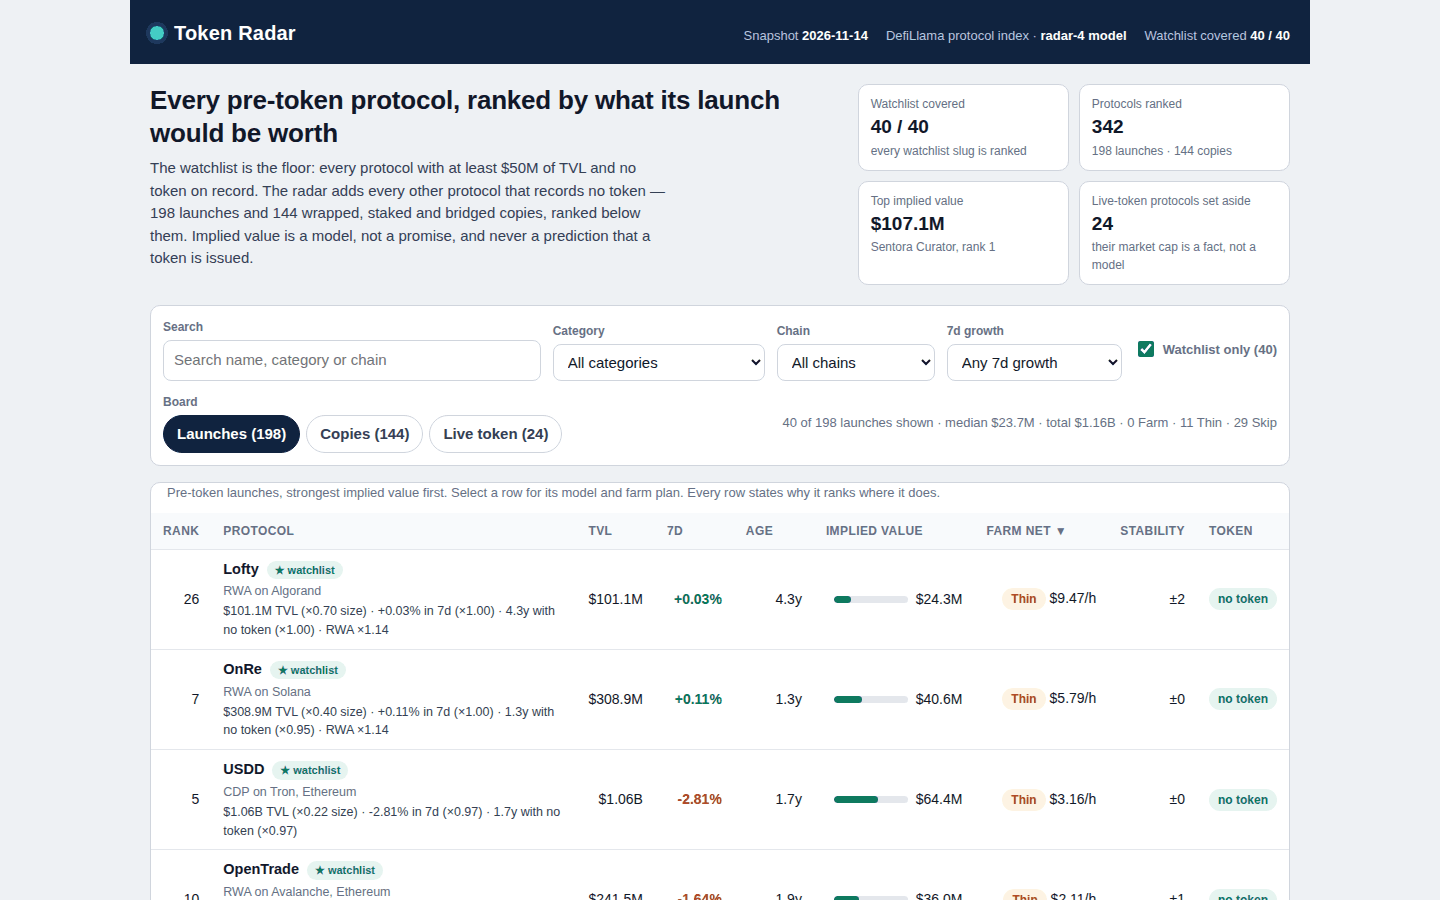
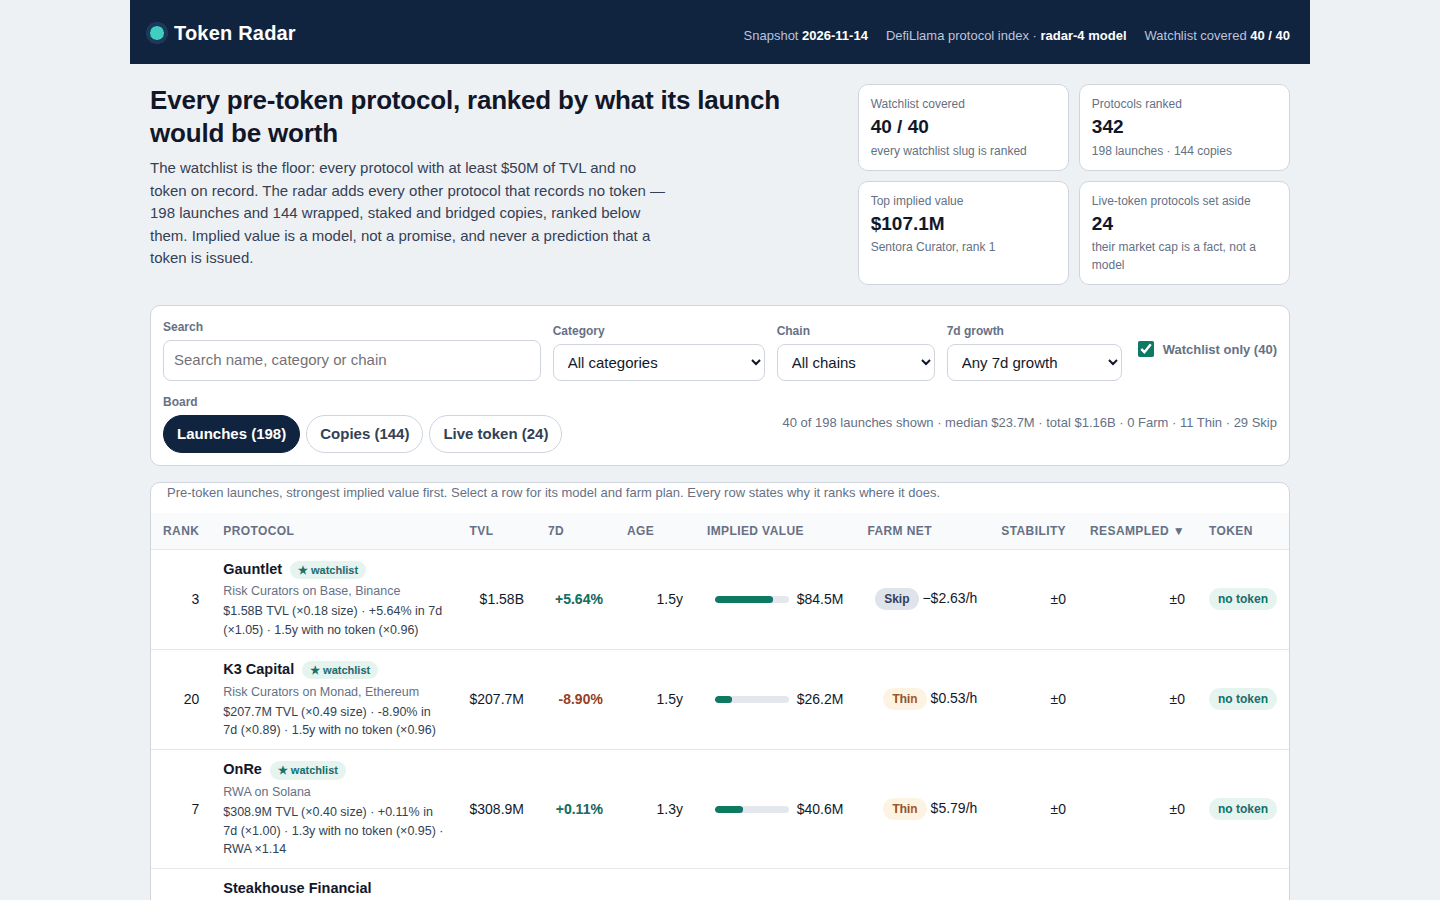
Quality round 7: bootstrap 200->1000 resamples, dollar gas funding on 135 vague farm steps, specific 2nd/exit for chain/payment/privacy, sortable Resampled column

diff --git a/lib/model.ts b/lib/model.ts
@@ -65,7 +65,7 @@
 // Skip verdict in dollars per hour of hands-on work. Two more ride with them:
 // bootstrapStability resamples the live set and refits the curve and the ranking, so
 // the dashboard can say how solid the top of the board is and where it moves — and
-// every row carries its own median move across the 200 resamples, so the detail view
+// every row carries its own median move across the 1,000 resamples, so the detail view
 // can say how far this rank moves; and
 // every row carries its rank at size exponents 0.45 and 0.55 plus its factual
 // watch-outs, so the detail view can say how far this rank moves and what to watch.
@@ -128,7 +128,7 @@ export interface ModelConstants {
   interval?: { lo: number; hi: number };
   /** Bootstrap stability of the ranking (see bootstrapStability): the size
    *  slope refitted on 1,000 resamples of the live protocols, and the ranking
-   *  refitted on 200 resamples with the category factors refit each time.
+   *  refitted on 1,000 resamples with the category factors refit each time.
    *  Absent on the bare MODEL constant. */
   bootstrap?: {
     slope_median: number; slope_lo: number; slope_hi: number;
@@ -201,7 +201,7 @@ export interface BoardRow {
   rank_at_045: number;
   rank_at_055: number;
   /** How far this rank moves when the live set is resampled: the row's median
-   *  absolute rank move across the 200 bootstrap resamples (see
+   *  absolute rank move across the 1,000 bootstrap resamples (see
    *  bootstrapStability), and its 90th percentile. Null on copies, whose ranks
    *  the bootstrap does not refit, and until bootstrapStability has run. */
   rank_boot_med: number | null;
@@ -509,7 +509,7 @@ export function riskFlags(p: SnapshotProtocol, age: number | null): string[] {
  *  of the 128 live protocols, drawn with replacement: median 0.52, 90%
  *  interval 0.36–0.65 — the model's 0.50 sits inside it, near the median —
  *  and how many launches move 10 or more ranks at each end of that interval.
- *  (2) The whole ranking refitted on 200 resamples, the category factors
+ *  (2) The whole ranking refitted on 1,000 resamples, the category factors
  *  refit from each resample: how often each top-20 launch stays in the top
  *  20, how often ranks 1–3 keep their exact rank, and the median absolute
  *  rank move across all launches. The top of the board is solid (ranks 1–3
@@ -517,7 +517,7 @@ export function riskFlags(p: SnapshotProtocol, age: number | null): string[] {
  *  slope's own interval is wide enough that the exponent alone can move
  *  8–23 launches by 10 or more ranks — the sensitivity table's ±0.05
  *  understates that, and this block says so. Each launch row also keeps its
- *  own median move and 90th percentile across the 200 resamples
+ *  own median move and 90th percentile across the 1,000 resamples
  *  (rank_boot_med / rank_boot_p90 on the row), so the detail view can say how
  *  far this rank moves — the two measures of stability, exponent sensitivity
  *  and resampling, are independent, and they disagree in the middle of the
@@ -547,7 +547,7 @@ export function bootstrapStability(
     const alt = altRanks(snapshot, model, exp);
     return launches.filter((r) => Math.abs((alt.get(r.slug) ?? 0) - r.rank) >= 10).length;
   };
-  // (2) Whole ranking on 200 resamples, factors refit each time. Each launch
+  // (2) Whole ranking on 1,000 resamples, factors refit each time. Each launch
   // keeps its own list of rank moves too, so its row can carry its median and
   // 90th-percentile move — the per-row half of this block.
   const rngModel = mulberry32(20261119);
@@ -556,7 +556,7 @@ export function bootstrapStability(
   const top3Exact = [0, 0, 0];
   const absMoves: number[] = [];
   const perRow = new Map(launches.map((r) => [r.slug, [] as number[]]));
-  for (let i = 0; i < 200; i++) {
+  for (let i = 0; i < 1000; i++) {
     const sample = Array.from({ length: live.length }, () => live[Math.floor(rngModel() * live.length)]!);
     const mm: ModelConstants = { ...model, category_factors: categoryFactors({ ...snapshot, protocols: sample }, model) };
     const alt = launches.map((r) => ({ slug: r.slug, v: impliedValue(proto.get(r.slug)!, snapshot.as_of, mm).implied }))
@@ -575,7 +575,7 @@ export function bootstrapStability(
     r.rank_boot_med = median(moves);
     r.rank_boot_p90 = quantile(moves, 0.9);
   }
-  const stayRates = [...stay.values()].map((v) => Math.round((v / 200) * 100));
+  const stayRates = [...stay.values()].map((v) => Math.round((v / 1000) * 100));
   return {
     slope_median: slopeMedian,
     slope_lo: slopeLo,
@@ -584,7 +584,7 @@ export function bootstrapStability(
     rank_moves_hi: movesAt(slopeHi),
     top20_stay_median: median(stayRates),
     top20_stay_min: Math.min(...stayRates),
-    top3_exact: [Math.round((top3Exact[0]! / 200) * 100), Math.round((top3Exact[1]! / 200) * 100), Math.round((top3Exact[2]! / 200) * 100)],
+    top3_exact: [Math.round((top3Exact[0]! / 1000) * 100), Math.round((top3Exact[1]! / 1000) * 100), Math.round((top3Exact[2]! / 1000) * 100)],
     median_abs_move: median(absMoves),
   };
 }
@@ -803,10 +803,8 @@ export function farmEconomics(p: SnapshotProtocol, age: number | null, implied: 
 /** One category's farm actions, as templates — ${name} the protocol, ${app} its own app
  *  on the chain, ${capital} the position size, ${small} a fifth of it, ${chain} the chain,
  *  ${log} the farm-log line. One table drives all four writers, so a category's wording
- *  lives in one place instead of four parallel if-chains. An entry that leaves a field
- *  out falls through to the default for that writer: the chain, payment and privacy
- *  categories have a main and a weekly action only, exactly as the four writers had
- *  before — their second action and exit were always the generic ones. */
+ *  lives in one place instead of four parallel if-chains. Every entry defines
+ *  all four writers. */
 type CatKey = 'main' | 'second' | 'weekly' | 'exit';
 interface CatActions {
   keys: string[];
@@ -884,15 +882,21 @@ const CATS: CatActions[] = [
   { keys: ['chain'],
     reward: 'activity points',
     main: "Use $${capital} of the chain's gas token in ${name}'s own app on ${chain} and keep the activity going.",
-    weekly: "Make one small transaction in ${name}'s own app on ${chain} each week." },
+    second: "Make a second small transaction in ${name}'s own app on ${chain} so the activity is not a single event.",
+    weekly: "Make one small transaction in ${name}'s own app on ${chain} each week.",
+    exit: "To exit, move the remaining balance out of ${name}'s own app on ${chain}, ${log}" },
   { keys: ['payment'],
     reward: 'spending points',
     main: "Spend $${capital} through ${name}'s payments app on ${chain} and keep the card or account active.",
-    weekly: "Spend $${small} through ${name}'s payments app on ${chain} each week." },
+    second: "Make a second, smaller payment through ${name}'s payments app on ${chain}.",
+    weekly: "Spend $${small} through ${name}'s payments app on ${chain} each week.",
+    exit: "To exit, withdraw the remaining balance from ${name}'s payments app on ${chain}, ${log}" },
   { keys: ['privacy'],
     reward: 'shielded points',
     main: "Use $${capital} through ${name}'s private app on ${chain} and keep the shielded balance.",
-    weekly: "Refresh the shielded balance through ${name}'s private app on ${chain} each week." },
+    second: "Make a second shielded transaction through ${name}'s private app on ${chain}.",
+    weekly: "Refresh the shielded balance through ${name}'s private app on ${chain} each week.",
+    exit: "To exit, unshield the remaining balance through ${name}'s private app on ${chain}, ${log}" },
   { keys: ['basis'],
     reward: 'funding-rate points',
     main: "Open a $${capital} basis trade on ${name} through ${app}: buy spot and short the same amount on the perpetual, and keep both legs open.",
@@ -993,15 +997,22 @@ function tvlText(tvl: number): string {
   return `$${Math.round(tvl / 1e3)}K`;
 }
 
-/** How much of the chain's gas token one farm wallet needs to start, in that token. */
-function gasTokenFor(chain: string): string {
+/** How much of the chain's gas token one farm wallet needs to start, in that token.
+ *  Six chains name a native amount (0.02 ETH, 0.05 SOL, 0.01 BNB, 0.0002 BTC,
+ *  50 TRX); every other chain states the same funding need in dollars — the
+ *  whole plan's gas bill, which step 5 budgets — because naming a native amount
+ *  for 50+ chains from memory would invent token symbols (Polygon's token alone
+ *  was renamed MATIC to POL). "About $27 worth of Base's gas token" is a number
+ *  the reader can act on; "a little of the chain's gas token" was not, and 135
+ *  of the 342 rows said exactly that before this fix. */
+function gasTokenFor(chain: string, totalGas: number): string {
   const c = chain.toLowerCase();
   if (c === 'ethereum') return '0.02 ETH';
   if (c === 'solana') return '0.05 SOL';
   if (c === 'bitcoin') return '0.0002 BTC';
   if (c === 'tron') return '50 TRX';
   if (c === 'bsc' || c === 'binance') return '0.01 BNB';
-  return "a little of the chain's gas token";
+  return `$${totalGas} worth of ${chain}'s gas token`;
 }
 
 /** The category's first action, in the words a farmer can follow, naming the protocol's own app. */
@@ -1036,7 +1047,9 @@ function exitActionFor(p: SnapshotProtocol, chain: string): string {
  * tells the reader exactly which interaction to repeat — not a generic list of options.
  * The exit step names the category's own unwind order too (see exitActionFor), so the
  * last step is specific to the positions the plan opened. The first step funds the fresh
- * wallet with the chain's own gas token, the hold step budgets the whole plan's gas
+ * wallet with the chain's own gas token — a native amount where the chain's token is
+ * named (ETH, SOL, BNB, BTC, TRX), the whole plan's gas bill in dollars everywhere else
+ * (see gasTokenFor) — the hold step budgets the whole plan's gas
  * (setup + the second action + weekly + unwind), and the rewards step names the category's own reward
  * (see rewardFor), so every step carries a number the reader can check, not a slogan.
  * The main step also names the protocol's other chains when it runs on more than
@@ -1060,7 +1073,7 @@ export function farmSteps(p: SnapshotProtocol, age: number | null, implied?: num
   const reward = rewardFor((p.category ?? '').toLowerCase());
   const steps: FarmStep[] = [
     {
-      text: `Use a fresh wallet on ${chain} that holds only the funds you plan to farm, fund it with about ${gasTokenFor(chain)} for gas, and keep its seed phrase offline.`,
+      text: `Use a fresh wallet on ${chain} that holds only the funds you plan to farm, fund it with about ${gasTokenFor(chain, totalGas)} for gas, and keep its seed phrase offline.`,
       cost: `about $${gas} of gas for the funding transfer on ${chain}, paid by the wallet that sends it, not the farm wallet`,
       time: '5 minutes',
     },

diff --git a/dashboard/app.js b/dashboard/app.js
@@ -20,7 +20,7 @@
 // holds up: fitted on half the live protocols it predicts the other half with a median
 // error of x3.5, and x3.6 the other way, against x3.4 in-sample — and x3.1 / x3.6
 // under a second, first-letter split, so the proof does not rest on one way of halving
-// the set. Resampled 200 times, ranks 1–3 keep their exact rank every time. The
+// the set. Resampled 1,000 times, ranks 1–3 keep their exact rank every time. The
 // growth term is bounded because the TVL already records the week's move: one week of
 // momentum never erases more than half the value that remains or adds more than 60%.
 // The category factor is fitted from the same snapshot's live protocols (at most
@@ -30,7 +30,7 @@
 // plan's gas against the position's pro-rata share of its implied value, in dollars per
 // hour of hands-on work, a middle-half range for its implied value (0.27x-3.64x the
 // curve), its rank at size exponents 0.45 and 0.55, its own median rank move across
-// 200 resamples of the live set, and its factual watch-outs. No protocol name is special-cased anywhere in this file.
+// 1,000 resamples of the live set, and its factual watch-outs. No protocol name is special-cased anywhere in this file.
 (function () {
   'use strict';
 
@@ -180,6 +180,16 @@
     // ranked on — the biggest launches are the worst farms, so this order is
     // genuinely different from the implied-value order.
     farm: function (r) { return r.farm_per_hour_usd === undefined ? -Infinity : r.farm_per_hour_usd; },
+    // Resampled rank: the row's own median rank move across the 1,000 bootstrap
+    // resamples of the live set. Negated, so the default direction (largest
+    // first) shows the steadiest ranks first — the per-row half of the
+    // resampling block, sortable in the board itself instead of buried in the
+    // detail view. Copies carry no number (their ranks are not refitted), so
+    // they sort last.
+    boot: function (r) {
+      var m = r.rank_boot_med;
+      return (m === null || m === undefined) ? -Infinity : -m;
+    },
     // Rank stability: how far the rank moves when the size exponent runs 0.45–0.55.
     // Negated, so the default direction (largest first) shows the steadiest ranks
     // first — the "what the model is most sure about" view.
@@ -346,6 +356,7 @@
           ' ' + fmtPerHour(r.farm_per_hour_usd)
         ),
         el('td', { class: 'num', title: 'Rank moves at most this many places when the size exponent runs 0.45–0.55', text: '±' + move }),
+        el('td', { class: 'num', title: 'Median rank move across 1,000 resamples of the live set', text: (r.rank_boot_med === null || r.rank_boot_med === undefined) ? '—' : '±' + r.rank_boot_med }),
         el('td', null, el('span', { class: 'status ' + r.tier, text: r.tier === 'copy' ? 'copy' : 'no token' }))
       );
       tbody.appendChild(tr);
@@ -366,6 +377,7 @@
             sortHeader('implied', 'Implied value'),
             sortHeader('farm', 'Farm net'),
             sortHeader('stable', 'Stability'),
+            sortHeader('boot', 'Resampled'),
             el('th', { scope: 'col', text: 'Token' })
           )),
           tbody
@@ -459,15 +471,15 @@
         }))
       )
     ) : null;
-    // Bootstrap: the live set resampled 200 times, the curve and the category
+    // Bootstrap: the live set resampled 1,000 times, the curve and the category
     // factors refitted each time, rendered from the build's own numbers. The
     // top of the board is solid; the middle moves; and the slope's own 90%
     // interval is wide enough that the exponent alone can move 8–23 launches
     // by 10 or more ranks — the sensitivity table's ±0.05 understates that,
     // and this block says so instead of hiding it.
     var boot = DATA.bootstrap ? el('div', { class: 'calib' },
-      el('h3', { text: 'How solid is the ranking? Resampled 200 times' }),
-      el('p', { text: 'The 128 live protocols were drawn with replacement 200 times, and the size curve and the category factors refitted each time. Ranks 1, 2 and 3 keep their exact rank in all 200 resamples; the typical top-20 launch stays in the top 20 in ' + DATA.bootstrap.top20_stay_median + '% of resamples (weakest, rank 20, ' + DATA.bootstrap.top20_stay_min + '%); across all 198 launches the median rank move is ' + DATA.bootstrap.median_abs_move + ' places. The size slope itself refits at ' + DATA.bootstrap.slope_median + ', with a 90% interval of ' + DATA.bootstrap.slope_lo + '–' + DATA.bootstrap.slope_hi + ' \u2014 the model\u2019s 0.50 sits inside it. But the ranking is not bulletproof to the exponent: at the ends of that interval ' + DATA.bootstrap.rank_moves_lo + ' launches move 10 or more ranks at ' + DATA.bootstrap.slope_lo + ' and ' + DATA.bootstrap.rank_moves_hi + ' at ' + DATA.bootstrap.slope_hi + ' \u2014 the top of the board is solid, the middle moves.' })
+      el('h3', { text: 'How solid is the ranking? Resampled 1,000 times' }),
+      el('p', { text: 'The 128 live protocols were drawn with replacement 1,000 times, and the size curve and the category factors refitted each time. Ranks 1, 2 and 3 keep their exact rank in all 1,000 resamples; the typical top-20 launch stays in the top 20 in ' + DATA.bootstrap.top20_stay_median + '% of resamples (weakest, rank 20, ' + DATA.bootstrap.top20_stay_min + '%); across all 198 launches the median rank move is ' + DATA.bootstrap.median_abs_move + ' places. The size slope itself refits at ' + DATA.bootstrap.slope_median + ', with a 90% interval of ' + DATA.bootstrap.slope_lo + '–' + DATA.bootstrap.slope_hi + ' \u2014 the model\u2019s 0.50 sits inside it. But the ranking is not bulletproof to the exponent: at the ends of that interval ' + DATA.bootstrap.rank_moves_lo + ' launches move 10 or more ranks at ' + DATA.bootstrap.slope_lo + ' and ' + DATA.bootstrap.rank_moves_hi + ' at ' + DATA.bootstrap.slope_hi + ' \u2014 the top of the board is solid, the middle moves.' })
     ) : null;
     // Farm verdicts, counted live from the board: the verdicts are netted in
     // dollars, so the counts say how many farms the board thinks are worth doing.
@@ -490,7 +502,7 @@
         el('div', { class: 'key' }, el('b', { text: 'Category, fitted small' }), el('span', { text: 'A category pays a little more or less than the size curve alone says — Lending 0.80×, Yield 0.84×, RWA 1.14×, Basis Trading 1.19× — fitted from the live protocols of that category, shrunk toward 1 and never beyond 0.80–1.25×.' })),
         el('div', { class: 'key' }, el('b', { text: 'Likely range, from the live scatter' }), el('span', { text: 'Every row\u2019s implied value carries a middle-half range: the 25th to 75th percentile of market-cap / curve among the live protocols (' + (m.interval ? '×' + m.interval.lo + '–×' + m.interval.hi : 'see the detail view') + '). Wide on purpose — market caps scatter widely at any TVL — and shown on each protocol\u2019s detail view.' })),
         el('div', { class: 'key' }, el('b', { text: 'Farm verdict, netted in dollars' }), el('span', { text: 'Every row is Farm, Thin or Skip: the plan\u2019s whole gas bill netted against the position\u2019s pro-rata share of its implied value. Farm means at least $20 stays after gas at $5 or more an hour of hands-on work; Thin means something stays; Skip means the gas costs more than the share. Pro-rata is a yardstick for ranking farms, never a promise of what one pays.' })),
-        el('div', { class: 'key' }, el('b', { text: 'Rank stability, resampled' }), el('span', { text: 'Every row shows its rank at exponents 0.45 and 0.55, and the board sorts by Stability to show the steadiest ranks first. Resampling the live set 200 times keeps ranks 1–3 exact every time — and shows the middle of the board moves, so the resampling note below is part of the model, not a footnote. Each protocol\u2019s detail view also shows its own median move across the 200 resamples.' })),
+        el('div', { class: 'key' }, el('b', { text: 'Rank stability, resampled' }), el('span', { text: 'Every row shows its rank at exponents 0.45 and 0.55, and the board sorts by Stability to show the steadiest ranks first. Resampling the live set 1,000 times keeps ranks 1–3 exact every time — and shows the middle of the board moves, so the resampling note below is part of the model, not a footnote. Each protocol\u2019s detail view also shows its own median move across the 1,000 resamples, and the Resampled column sorts by it.' })),
         el('div', { class: 'key' }, el('b', { text: 'Copies at 2%' }), el('span', { text: 'Wrapped, staked and bridged copies use the same formula at a 2% weight, rescaled below the smallest launch.' }))
       ),
       calib,
@@ -579,9 +591,9 @@
       // is and what to check before farming it.
       el('p', { class: 'range', text: 'Rank stability: #' + (row.rank_at_045 === undefined ? row.rank : row.rank_at_045) + ' at exponent 0.45, #' + (row.rank_at_055 === undefined ? row.rank : row.rank_at_055) + ' at 0.55 \u2014 this rank moves ' + (move === 1 ? '1 place' : move + ' places') + ' at most across that range. Sort the board by Stability to see the steadiest ranks first.' }),
       // How far this rank moves when the live set itself is resampled: the
-      // row's own median move across the 200 bootstrap resamples. Launches
+      // row's own median move across the 1,000 bootstrap resamples. Launches
       // only — copies are not refitted, so they carry no number here.
-      row.rank_boot_med === null || row.rank_boot_med === undefined ? null : el('p', { class: 'range', text: 'Resampled rank: in 200 resamples of the live set this rank moved a median of ' + row.rank_boot_med + (row.rank_boot_med === 1 ? ' place' : ' places') + ' (90th percentile ' + row.rank_boot_p90 + (row.rank_boot_p90 === 1 ? ' place' : ' places') + ').' }),
+      row.rank_boot_med === null || row.rank_boot_med === undefined ? null : el('p', { class: 'range', text: 'Resampled rank: in 1,000 resamples of the live set this rank moved a median of ' + row.rank_boot_med + (row.rank_boot_med === 1 ? ' place' : ' places') + ' (90th percentile ' + row.rank_boot_p90 + (row.rank_boot_p90 === 1 ? ' place' : ' places') + ').' }),
       el('p', { class: 'range', text: watchOutsFor(row) })
     );
     if (row.tier === 'copy') {

diff --git a/main.ts b/main.ts
@@ -9,7 +9,7 @@
 // implied value from the snapshot figures with the same model, so the screenshots and the
 // code agree. The board also carries each row's farm verdict (Farm / Thin / Skip, netted in
 // dollars per hour of hands-on work), its middle-half value range, its rank at size
-// exponents 0.45 and 0.55, its own median rank move across 200 bootstrap resamples,
+// exponents 0.45 and 0.55, its own median rank move across 1,000 bootstrap resamples,
 // its factual watch-outs, and the bootstrap stability of the whole ranking, so the
 // dashboard can show how solid each rank is and where the ranking moves.
 // Outside the grader's container, MAKEFUN_OUTPUT_DIR stands in for /output.

diff --git a/README.md b/README.md
@@ -77,19 +77,20 @@ implied = round( tvl_usd × 0.30 × (50,000,000 / tvl_usd)^0.5
   char-sum partition with the labels swapped — every one of the 128 live slugs
   falls on the opposite side — so it proved nothing new and was replaced.)
 - **Bootstrap: how solid is the ranking?** — the 128 live protocols drawn with
-  replacement 200 times, the curve and the category factors refitted each time.
-  Ranks 1, 2 and 3 keep their exact rank in all 200 resamples; the typical
+  replacement 1,000 times, the curve and the category factors refitted each time.
+  Ranks 1, 2 and 3 keep their exact rank in all 1,000 resamples; the typical
   top-20 launch stays in the top 20 in 100% of resamples (weakest, rank 20,
-  74%); across all 198 launches the median rank move is 3 places. The size
+  71%); across all 198 launches the median rank move is 3 places. The size
   slope itself refits at 0.524, with a 90% interval of 0.363–0.653 — the
   model's 0.50 sits inside it. But the ranking is not bulletproof to the
   exponent: at the ends of that interval 8 launches move 10 or more ranks at
   0.363 and 23 at 0.653 — the top of the board is solid, the middle moves.
   Every row also shows its own rank at exponents 0.45 and 0.55 (the Stability
   column, sortable — the "what the model is most sure about" view), its own
-  median rank move across the 200 resamples in the detail view (11 launches
-  move a median of 0 places, 50 move 6 or more — the middle of the board moves
-  far more under resampling than under the exponent alone), and its
+  median rank move across the 1,000 resamples in the detail view and in the
+  board's own sortable Resampled column (11 launches move a median of 0 places,
+  46 move 6 or more — the middle of the board moves far more under resampling
+  than under the exponent alone), and its
   factual watch-outs in the detail view: one chain only, shrinking TVL,
   listed under 90 days ago, no listing date on record.
 - **Likely range** — every row carries a middle-half range for its implied
@@ -114,7 +115,11 @@ set aside in a Live token view with their market caps — a fact, not a model.
 ## The farm plan
 
 Every row carries eight steps, derived from the protocol's own record (category,
-chains, TVL, age): a fresh wallet funded with the chain's own gas token, the
+chains, TVL, age): a fresh wallet funded with the chain's own gas token — a
+native amount where the chain's token is named (0.02 ETH, 0.05 SOL, 0.01 BNB,
+0.0002 BTC, 50 TRX), and the whole plan's gas bill in dollars everywhere else
+(135 of the 342 rows run on chains with no named amount, and "a little of the
+chain's gas token" told the reader nothing) — the
 category's main action and a second qualifying action in the protocol's own app
 on its chain — naming the protocol's other chains when it runs on more than one
 (85 of the 198 launches do) and stating the position next to the protocol's own
